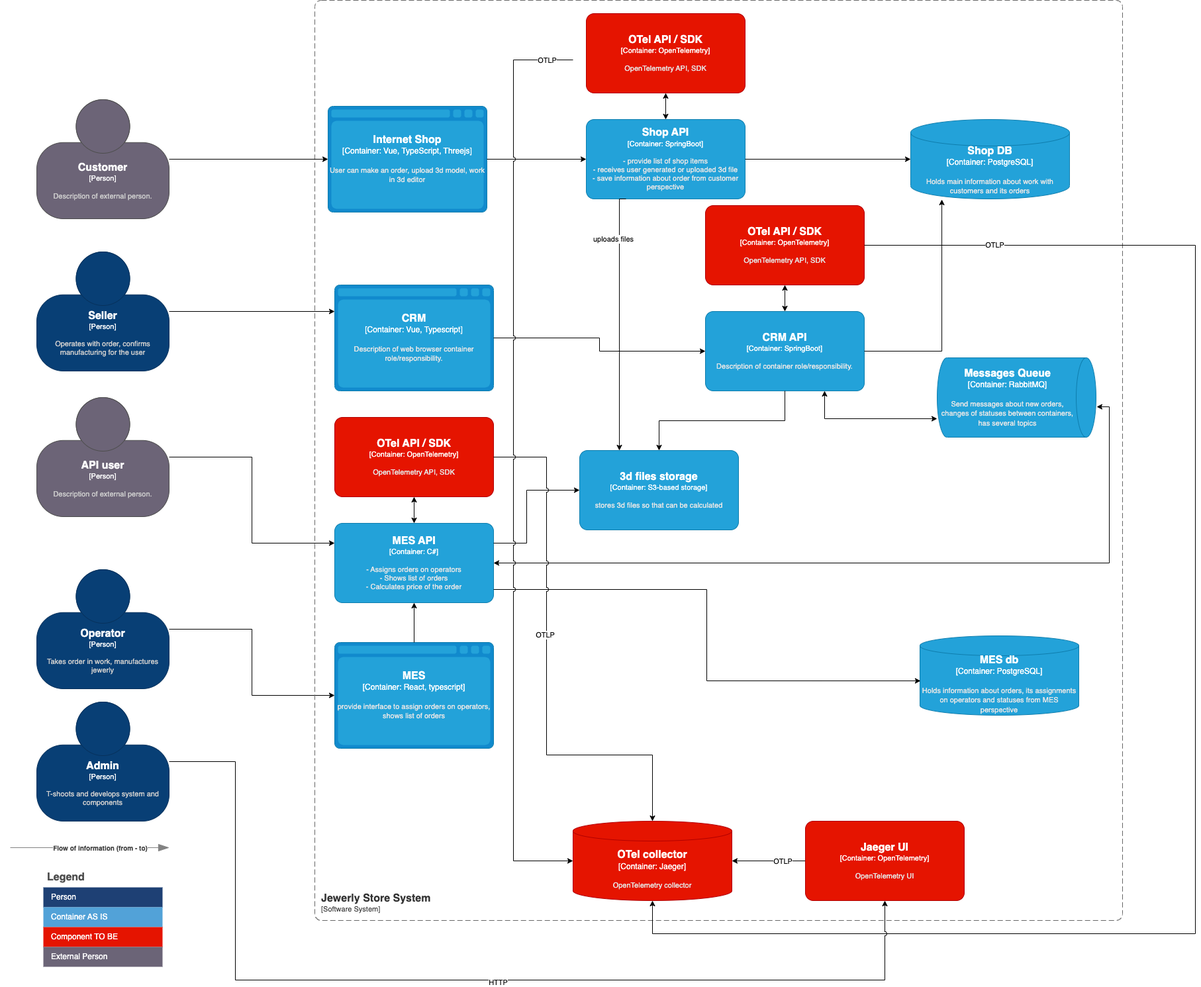
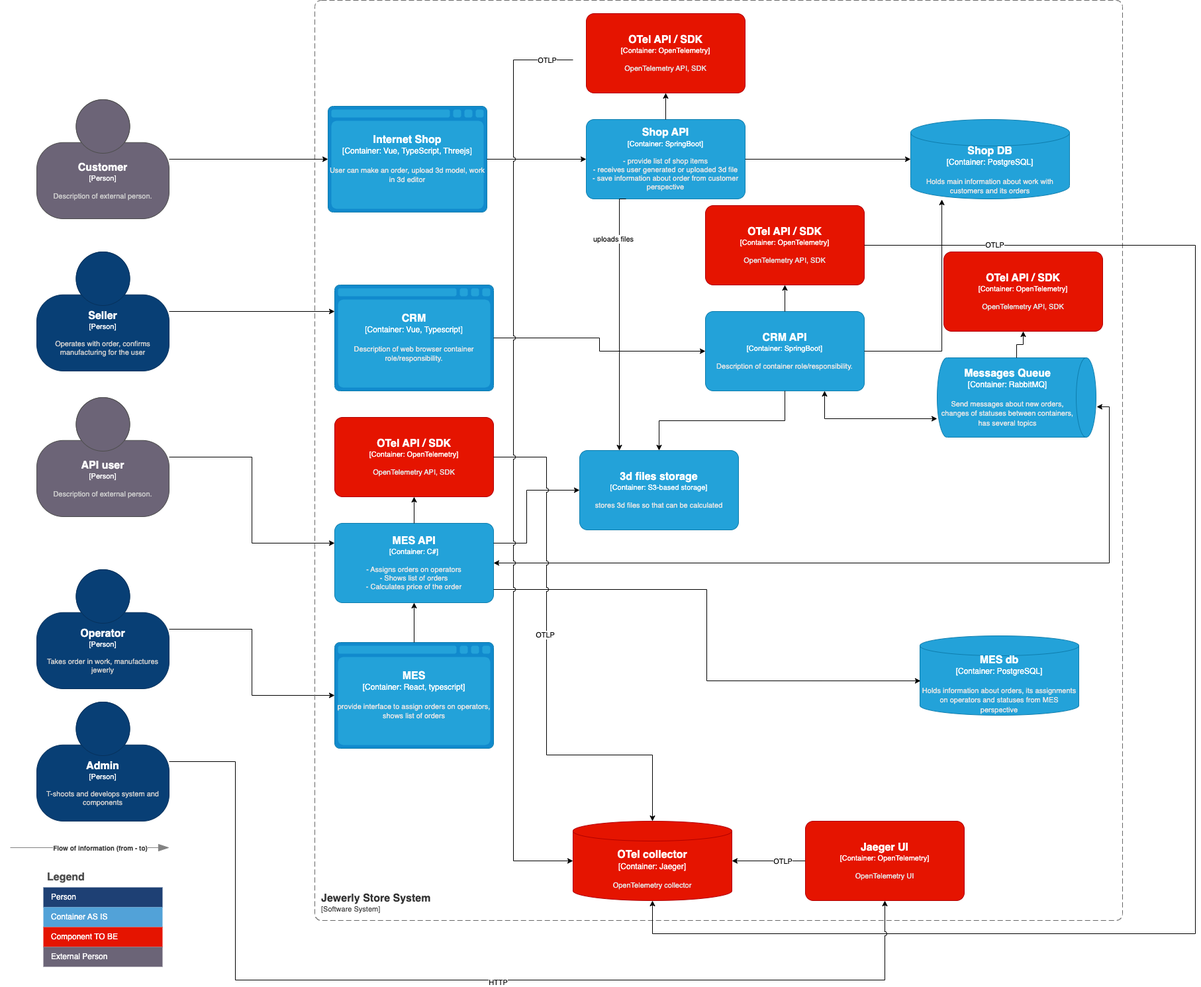
exc4-5: wip

Changed region(s): [[0.7718, 0.2468, 0.9261, 0.3394]]

diff --git a/Exc4/Архитектурное решение по логированию.md b/Exc4/Архитектурное решение по логированию.md
@@ -5,9 +5,70 @@
 Например, изменение статуса заказа. Логируем время, идентификатор покупателя, номер заказа.
 Напишите, будете ли вы использовать другие уровни логирования и при каких обстоятельствах
 
+В первую очередь нас интересуют логи связанные с жизненным циклом заказа, пусть это будут сообщения уровня INFO: 
+
+ - INITIATED [онлайн-магазин] — пользователь завёл новый заказ или положил товары в пустую корзину.
+ - FILE_UPLOADED [онлайн-магазин] — пользователь загрузил файл с 3D-моделью или создал его с помощью конструктора.
+ - SUBMITTED [онлайн-магазин] — пользователь нажал на кнопку «Сделать заказ».
+ - PRICE_CALCULATED [MES] — система посчитала стоимость заказа.
+ - MANUFACTURING_APPROVED [CRM] — заказ подтверждён, его можно отдавать в производство.
+ - MANUFACTURING_STARTED [MES] — оператор взял заказ в работу.
+ - MANUFACTURING_COMPLETED [MES] — оператор выполнил заказ.
+ - PACKAGING [MES] — оператор начал упаковывать заказ.
+ - SHIPPED [MES] — заказ отправлен покупателю.
+ - CLOSED [CRM] — заказ завершён. Он закрывается после получения сообщения от транспортной компании или вручную.
+
+Для всех логов верным будет формат типа:
+
+ - Unique Message ID - уникальный идентификатор сообщения
+ - Unix Timestamp - временная метка на момент создания сообщения в unix формате
+ - Service Initiator ID - сервис создавший запись
+ - Severity - уровень критичности
+ - User ID - уникальный идентификатор пользователя, создавшего событие
+ - Action - действие пользователя (например CRUD формат)
+ - Status - результат действия (SUCCESS / FAIL)
+ - Data - дополнительные данные в соответствии с уровнем критичности сообщения
+ - (опционально) HASH-SUM - для обеспечения неизменимости тела сообщения
+
+Например:
+
+ - 3028a2b9-54d8-41c0-bc6b-5ea6d028dadf, 1739114110, MES API, INFO, 39de626d-4996-4214-b106-1ffe374115c7, CREATE ORDER, SUCCESS, Additional Info
+
+
+Помимо логов приложения потребуются логи инфраструктуры:
+
+ - Логи операционной системы, как минимум ERROR, FATAL
+ - Логи баз данных, как минимум ERROR, FATAL
+ - Логи сервиса очередей, как минимум ERROR, FATAL
+
+
 # 3. Добавьте в файл раздел «Мотивация». Напишите здесь, почему в систему нужно добавить логирование и что это даст компании. Опишите три-пять технические и бизнес-метрики решения, на которые может повлиять внедрение логирования.
 
 Команда не сможет реализовать единовременно логирование и трейсинг всех выделенных для этого систем. Поэтому опишите, для каких систем нужно настраивать логирование и трейсинг в первую очередь и почему.
+
+
+## Мотивация
+
+Система логирования:
+
+ - Качество приложения/системы/бизнес процессов. Система покажет общее количество ошибок, и кол-во ошибок в моменте.
+ - Информация для локализации проблемы. По каждой ошибке система даст дополнительную текстовую информацию, которая поможет локализовать причину возникновения
+ - Безопасность. В минимальной степени отобразит события связанные с безопасностью (например попытки перебора паролей)
+ - (для обеспечения целостного мониторинга безопасности и предотвращения инцидентов принято внедрять несколько другие системы  (SIEM, DLP, Antivirus, Firewall и т.п.))
+
+Уровень логирования INFO должен быть включен безусловно для всех компонент системы. И как правило не представляет проблем в реализации.
+Проблемы как правило связаны с дисковым пространством. Конфигурации ротации логов может решить проблему, однако полностью отказываться от логирования не стоит.
+В случае если сообщений INFO неоправданно много, и ротация происходит в течение нескольких часов, возможны варианты перехода на уровень логирования WARNING или ERROR.
+
+Если речь идет о выборе сервисов которые должны быть включены в систему ЦЕНТРАЛИЗОВАННОГО мониторинга в разрезе проблем с производительностью, то предлагаю рассмотреть сервисы:
+
+ - Shop API
+ - CRM API
+ - MES API
+ - Message Queue
+
+На радаре отобразить сообщения типа ERROR для оценки их количества.
+
 
 # 4. Добавьте раздел «Предлагаемое решение».
 
@@ -15,9 +76,76 @@
 Проработайте политику безопасности в отношении логов — как будет происходить работа с чувствительными данными, кто будет иметь доступ к логам.
 Проработайте политику хранения в отношении логов — будет ли это отдельный индекс под систему, сколько они будут храниться и какого размера будут.
 
+ - Сервисы должны производить записи в журналах, записи должны маскировать чувствительные данные
+ - На виртуальные машины устанавливается opensource компоненты filebeat
+ - В конфигурации filebeat настраивается лог-коллектор куда записи будут отправлены, при необходимости в конфигурации выполняется маскирование данных
+ - В конфигурации filebeat настраивается индекс под приложение / сервис
+ - В качестве SaaS решения может быть выбран лог-коллектор и UI, или на отдельную виртуальную машину (или несколько ноды если кластер) устанавливается компонент ElasticSearch, которые будет выполнять функции агрегации и поиска сообщений
+ - На отдельную виртуальную машину устанавливается компонент для визуализации поиска и статистики по сообщениям логов.
+
+## Политика ротации
+Политика ротации будет зависеть главным образом от поставленных целей и бюджета в рамках целей.
+Для сложных систем рассчитывается прогноз по месту на дисках в соответствии с количеством и составом отдельного сообщения.
+В нашем случае будем отталкиваться от выделенного места под хранение записей на машине или SaaS сервисе ElasticSearch.
+
+### ElasticSearch. 
+
+По мере утилизации дискового пространства будем осуществлять удаление старых записей.
+
+Индексы - на каждое отдельное приложение / сервис свой индекс, настраивается в конфигурации filebeat.
+
+### На виртуальных машинах приложения
+
+По мере утилизации дискового пространства будем осуществлять удаление старых записей.
+
+
+[c4 logging containers](../Images/jewerly_c4_model_logging.png)
+
 # 5. Проработайте необходимые мероприятия для превращения системы сбора логов в систему анализа логов:
 
 Нужно ли настроить какой-то алертинг?
 Нужно ли искать аномалии? Например, было четыре записи о создании заказов и за секунду их стало 10 000. Возможно, происходит DDoS-атака конкурентами.
+ 
+Существуют системы, в которых появление любой ошибки в единичном экземпляре является триггером для запуска механизма по выявлению причины и расследованию инцидента.
+
+В нашем случае ситуация несколько проще, уведомлять предлагаю при появлении аномалий. Однако необходимо договориться что считаем аномалиями, а что нет.
+На момент исследования проблем с производительностью установить аномалии будет сложнее.
+Однако даже в условиях существования проблемы резкое изменение кол-ва сообщений может свидетельствовать о достижении предела производительности системы.
+
+Поэтому будем наблюдать за резким изменением следующего кол-ва сообщений типа INFO, WARNING, ERROR: 
+
+ - INITIATED [онлайн-магазин] — пользователь завёл новый заказ или положил товары в пустую корзину.
+ - FILE_UPLOADED [онлайн-магазин] — пользователь загрузил файл с 3D-моделью или создал его с помощью конструктора.
+ - SUBMITTED [онлайн-магазин] — пользователь нажал на кнопку «Сделать заказ».
+ - PRICE_CALCULATED [MES] — система посчитала стоимость заказа.
+ - MANUFACTURING_APPROVED [CRM] — заказ подтверждён, его можно отдавать в производство.
+ - MANUFACTURING_STARTED [MES] — оператор взял заказ в работу.
+ - MANUFACTURING_COMPLETED [MES] — оператор выполнил заказ.
+ - PACKAGING [MES] — оператор начал упаковывать заказ.
+ - SHIPPED [MES] — заказ отправлен покупателю.
+ - CLOSED [CRM] — заказ завершён. Он закрывается после получения сообщения от транспортной компании или вручную.
+
+Резкость изменений следует установить из анализа ретроспективы кол-ва сообщений за период.
 
 # 6. Дополнительное задание. Проработайте критерии для выбора технологии для работы с логами и обоснуйте свой выбор через плюсы и минусы. Выделите не менее пяти критериев.
+
+| Характеристика               | OpenSearch                     | Graylog                        | ELK Stack (Elasticsearch, Logstash, Kibana) | Loki (Grafana)               | Splunk                       |
+|------------------------------|--------------------------------|--------------------------------|---------------------------------------------|------------------------------|------------------------------|
+| **Тип лицензии**             | Open Source (Apache 2.0)      | Open Source (GPLv3) / Enterprise | Open Source (Apache 2.0) / Enterprise       | Open Source (AGPLv3)         | Проприетарная                |
+| **Стоимость**                | Бесплатно                     | Бесплатно (Community) / Платная (Enterprise) | Бесплатно / Платная (Elastic Stack)         | Бесплатно                    | Высокая (платная)            |
+| **Простота установки**       | Средняя                       | Высокая                        | Средняя                                     | Высокая                      | Высокая                      |
+| **Масштабируемость**         | Высокая                       | Высокая                        | Высокая                                     | Высокая                      | Очень высокая                |
+| **Поддержка кластеризации**  | Да                            | Да                             | Да                                          | Да                           | Да                           |
+| **Интеграция с Grafana**     | Да                            | Нет                            | Да (через плагин)                           | Да (родная интеграция)       | Да (через плагин)            |
+| **Поддержка SQL-запросов**   | Да (OpenSearch SQL)           | Нет                            | Да (Elasticsearch SQL)                      | Нет                          | Да (Splunk SPL)              |
+| **Поддержка полнотекстового поиска** | Да                     | Да                             | Да                                          | Нет                          | Да                           |
+| **Поддержка алертинга**      | Да                            | Да                             | Да (через Kibana или Elastic Alerting)      | Да (через Grafana)           | Да                           |
+| **Поддержка плагинов**       | Да                            | Да                             | Да                                          | Да                           | Да                           |
+| **Cloud native**     | Да                            | Да                             | Да                                          | Да (родная поддержка)        | Да                           |
+| **Поддержка сообществом**    | Активное                      | Активное                       | Очень активное                              | Активное                     | Ограниченная (коммерческая)  |
+| **Поддержка Enterprise**     | Нет                           | Да                             | Да                                          | Нет                          | Да                           |
+| **Поддержка форматов логов** | JSON, CSV, текстовые логи     | JSON, Syslog, GELF, текстовые  | JSON, CSV, текстовые логи                   | Текстовые логи, JSON         | JSON, CSV, текстовые логи    |
+| **Поддержка API**            | Да                            | Да                             | Да                                          | Да                           | Да                           |
+| **Поддержка RBAC**           | Да                            | Да                             | Да                                          | Да (через Grafana)           | Да                           |
+| **Поддержка шифрования**     | Да                            | Да                             | Да                                          | Да                           | Да                           |
+| **Поддержка машинного обучения** | Да (через плагины)       | Нет                            | Да (через Elastic ML)                       | Нет                          | Да                           |

diff --git a/Exc5/Архитектурное решение по кешированию.md b/Exc5/Архитектурное решение по кешированию.md
@@ -1,0 +1,76 @@
+# 1. Создайте в папке Exc5 текстовый файл «Архитектурное решение по кешированию». Здесь вы будете работать над заданием.
+
+# 2. Проанализируйте диаграмму системы и её описание. Решите, какую часть системы имеет смысл закешировать.
+
+В разрезе проблем с MES, стоит рассмотреть внедрение кеширования вокруг сервисов MES:
+
+ - MES
+ - MES API
+ - MES DB
+
+Более прицельные прогнозы по внедрению кеширования можно сделать после анализа метрик мониторинга и логирования.
+Например включить кеширование для большого числа однотипных запросов со статическим контентом.
+
+# 3. Добавьте в файл раздел «Мотивация». Опишите здесь, почему вы предлагаете внедрить кеширование, какие проблемы оно должно решить и какие элементы системы вы планируете включить в кеширование.
+
+## Мотивация
+
+Без подтверждения на базе статистических данных о количестве и характере кешируемых запросов обоснование будет выглядеть не убедительно.
+
+Однако исходя из описания задачи, проблемы которые может решить кеширование:
+  
+  - Жалобы со стороны операторов - MES система долго прогружается.
+  - Гипотетически - жалобы пользователей API о том, что они не получили свой заказ. Не получили свой заказ потому что оператор не увидел, не смог обновить статус заказ.
+  - Гипотетически - жалобы клиентов B2C о том, что заказ выполняется несколько месяцев вместо обещанных 3х недель. Аналогично, потому что оператор не увидел или не смог обновить статус заказа.
+
+Прорабатываем решение для кеширования следующих элементов системы:
+ 
+ - MES
+ - MES API
+ - MES DB
+
+# 4. Добавьте раздел «Предлагаемое решение». Определите, какое кеширование вы будете внедрять — клиентское или серверное. Объясните, почему, на ваш взгляд, нужно использовать именно его. Если вы решите куда-то внедрить серверное кеширование, то поясните, какой паттерн будете применять — Cache-Aside, Write-Through или Refresh-Ahead. А также объясните, почему вы выбрали этот паттерн и почему остальные паттерны не подойдут или покажут себя хуже.
+
+## Предлагаемое решение
+
+Клиентское кеширование (HTTP-кеш):
+ 
+ - Cache-Control: private, max-age=3600, no-cache 
+
+Серверное кеширование Read-Through и Write-Through - все запросы read/write проходят через кеш.
+Возможно использовать и другие паттерны, однако ниже перечислю преимущества такого подхода перед другими паттернами:
+ 
+ - низкая сложность внедрения - подходит под ограниченный бюджет на мониторинг или отсутствие его
+ - высокая консистентность данных - важно для работы с заказами на производстве
+ - низкая вероятность ошибки - важно для работы с заказами на производстве
+
+### операция чтения списка заказов
+
+[read order](../Images/READ_ORDER.png)
+
+### запись об изменении статуса заказа
+
+[read order](../Images/ORDER_UPDATE.png)
+
+### Инвалидация
+
+Будем использовать инвалидацию на основе изменений, считаем что это наиболее сбалансированный метод:
+
+ - обеспечивает актуальность данных
+ - достаточно прост в реализации 
+
+Инвалидация по ключу - тоже подходит, но требует затрат на управление ключами заказов и списков заказов (фильтров).  
+Временная инвалидация - не подходит потому что использованию устаревших данных оператором недопустимо при обработке заказа.
+Инвалидация, основанная на запросах - не подходит, частые запросы на просмотр заказов могут создать излишнюю нагрузку.
+Программная инвалидация - не подходит в виду сложности реализации.
+
+
+# 5. Нарисуйте диаграмму последовательности действий (Sequence diagram). Отобразите там, как проходит операция чтения списка заказов и запись об изменении статуса заказа. Там же опишите процесс кеширования с указанием всех сущностей, которые участвуют в кешировании. Добавьте диаграмму в раздел «Предлагаемое решение».
+
+++
+
+# 6. В блоке «Предлагаемое решение» опишите стратегию инвалидации кеша, которую вы планируете использовать. Объясните, какую стратегию инвалидации вы предлагаете (временную, по ключу, программную или другие), почему она подойдёт и почему не подойдут другие стратегии.
+
+++
+
+# 7. Дополнительное задание. Если вы считаете, что может быть несколько решений и вам сложно выбрать между ними, можете описать несколько вариантов. В таком случае в разделе «Предлагаемое решение» запишите как минимум два решения и подготовьте сопоставление в виде таблицы. Например, так:
